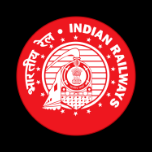
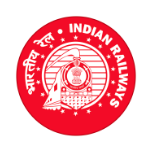
change design and add new videos

diff --git a/src/store/Database.js b/src/store/Database.js
@@ -1,25 +1,26 @@
 export const Database = () => {
     return [
+      { 
+        videoId: '377505634',
+        url: "01_contact_splice.png", 
+        title: "01. Contact Splice", 
+        desc: "01. Short video film on contact splice", 
+        type: "Popular on Netflix" 
+      },
       {
         videoId: '376735649',
         url: "railways-discharge-rod-f.png",
-        title: "Railways Discharge Rod F", 
-        desc:"In this tutorial, you will learn, ...", 
+        title: "02. Railways Discharge Rod", 
+        desc:"02. Short video film on how to apply and remove discharge rod", 
         type: "featured"
       },
-      { 
-        videoId: '376735649',
-        url: "https://m.media-amazon.com/images/M/MV5BNzAwNzUzNjY4MV5BMl5BanBnXkFtZTgwMTQ5MzM0NjM@._V1_SY298_CR0,0,201,298_AL_.jpg", 
-        title: "Venom", 
-        desc: "While Frodo and Sam edge closer to Mordor with the help of the shifty Gollum, the divided fellowship makes a stand against Sauron's new ally, Saruman, and his hordes of Isengard", 
-        type: "Popular on Netflix" 
+      {
+        videoId: '377510065',
+        url: "03_catanary_splice.png",
+        title: "03. Catenery Splice", 
+        desc:"03. Short video film on catenery splice.", 
+        type: "featured"
       },
-      { 
-        videoId: '376735649',
-        url: "https://m.media-amazon.com/images/M/MV5BNzIxMjYwNDEwN15BMl5BanBnXkFtZTgwMzk5MDI3NTM@._V1_SY298_CR0,0,201,298_AL_.jpg", title: "Jurassic park", 
-        desc: "While Frodo and Sam edge closer to Mordor with the help of the shifty Gollum, the divided fellowship makes a stand against Sauron's new ally, Saruman, and his hordes of Isengard", 
-        type: "Popular on Netflix" 
-      },
-        
+
     ];
   };

diff --git a/src/App.scss b/src/App.scss
@@ -1,18 +1,21 @@
 @import url('https://fonts.googleapis.com/css?family=Roboto');
 
-$black: #000;
+$black: #1613e6;
 $white: #FFF;
 $grey: #7F7F7F;
 
 $body-font-family: Roboto;
 $body-font-color: #EEE;
-$body-background: #171717;
+$body-background: #337ab7;
 $background: #333;
 
 $profile-background: #272727;
 $search-banner-bg: #444;
 $search-banner-font-color: #999;
 
+.home-logo, .splashLogo {
+  width: 100vw;
+}
 .fastest{
   animation-duration: .2s;
 }
@@ -40,7 +43,25 @@ h1, p {
     display: flex;
     overflow-x: scroll;
     -webkit-overflow-scrolling: touch;
+    flex-direction: column;
   }
+  .movie-item {
+    display: flex;
+    flex-direction: row;
+    margin: 5px 0px;
+    & > div {
+      flex: 1;
+      width: 50vw;
+      img {
+        width: 100%;
+      }
+    }
+    & .movie-desc {
+      text-align: left;
+      padding: 5px;
+    }
+  }
+
   .movie-container::-webkit-scrollbar {
       display: none;
     }
@@ -111,9 +132,9 @@ h1, p {
     max-width: 100%;
     overflow-x: hidden;
 }
-img {
-  height: 25vh;
-}
+// img {
+//   height: 25vh;
+// }
   .details-poster-container {
     display: flex;
     justify-content: center;

diff --git a/src/pages/Start.js b/src/pages/Start.js
@@ -1,7 +1,6 @@
 import React, { Component } from 'react'
 import { Database } from '../store/Database'
 import { Movie } from '../components/Movie'
-import HorizontalMovieScroll from '../components/HorizontalMovieScroll';
 
 
 export class Start extends Component {
@@ -12,28 +11,15 @@ export class Start extends Component {
     };
   }
   render() {
-    const featured = this.state.movies
-      .filter((m) => m.type === "featured")
-      .map((m) => {
-        return <Movie featured={true} info={m} key={Math.random()}></Movie>
-      });
     return (
       <div>
         <div className="text-center">
           <br />
-          <p>Welcome</p>
-
+          <h2>TRD Skill Development</h2>
+           <h3>Nagpur Division (C.R.)</h3>
           <p>
-            <img src="logo.png" alt="Indian Railways" />
+            <img className="home-logo" src="indian-railways-image-big.jpg" alt="Indian Railways" />
           </p>
-
-          <p>Please select options below</p>
-
-
-          {/* {featured} */}
-
-          {/* <HorizontalMovieScroll type="Tutorials" movies={this.state.movies} /> */}
-
           <br/>
         </div>
       </div>

diff --git a/src/pages/Details.js b/src/pages/Details.js
@@ -2,19 +2,31 @@ import React, { Component } from 'react'
 import { context } from '../store/MyContext.js';
 import CloseButton from '../components/CloseButton.js';
 import Youtube from '../components/Youtube.js';
+import { Database } from '../store/Database';
+import HorizontalMovieScroll from '../components/HorizontalMovieScroll';
 
 export class Details extends Component {
   static contextType = context;
   componentDidMount = () => {
     window.scrollTo(0, 0);
   }
+  constructor(props) {
+      super();
+      this.state = {
+          movies: Database(),
+      };
+  }
   render() {
     return (
       <div>
         <CloseButton />
+        <br />
         <div>
+          <h5 className="text-center">{this.context.movie.title}</h5>
           <Youtube videoId={this.context.movie.videoId} title={this.context.movie.title} />
         </div>
+
+        <HorizontalMovieScroll skipMovieId={this.context.movie.videoId} type="Other Related Tutorials" movies={this.state.movies} />
       </div>
     )
   }

diff --git a/src/components/Movie.js b/src/components/Movie.js
@@ -9,8 +9,11 @@ export class Movie extends Component {
     } 
     render() {
         return (
-            <div>
-                <div onClick={this.handleClick} id={this.props.featured ? "featured" : ""} className="movie d-flex"><img src={this.props.info.url} title={this.props.info.title} desc={this.props.info.desc} alt="movie"/></div>
+            <div className="movie-item">
+                <div className="movie-thumb" onClick={this.handleClick} id={this.props.featured ? "featured" : ""} >
+                    <img src={this.props.info.url} title={this.props.info.title} desc={this.props.info.desc} alt="movie"/>
+                </div>
+                <div className="movie-desc text-left">{this.props.info.desc}</div>
             </div>
           )
     }

diff --git a/src/components/HorizontalMovieScroll.js b/src/components/HorizontalMovieScroll.js
@@ -3,8 +3,9 @@ import { Movie } from './Movie'
 
 export default class HorizontalMovieScroll extends Component {
     render() {
+        const skipId = this.props.skipMovieId;
         const movies = this.props.movies
-            // .filter((m) => m.type === this.props.type)
+            .filter((m) => !skipId || (skipId && m.videoId !== skipId))
             .map((m) => {
                 return <Movie info={m} key={Math.random()}></Movie>
             });

diff --git a/src/pages/Splash.js b/src/pages/Splash.js
@@ -4,7 +4,7 @@ export const Splash = (props) => {
   return (
     <div className={props.fadeOut ? "splash animated fadeOut" : "splash"}>
     <div className="animated fadeIn">
-      <img className="animated pulse slow infinite" src="manifest-icon-512.png" alt="logo"></img>
+      <img className="splashLogo animated pulse slow infinite" src="logo.png" alt="logo"></img>
       </div>
     </div>
   )

diff --git a/src/components/Youtube.js b/src/components/Youtube.js
@@ -23,7 +23,7 @@ export default ({ videoId, title }) => {
       src={`https://player.vimeo.com/video/${videoId}`}
       frameBorder = "0"
       allow = "autoplay; fullscreen"
-      allowfullscreen />
+      allowFullScreen />
     </div>
   );
 };
